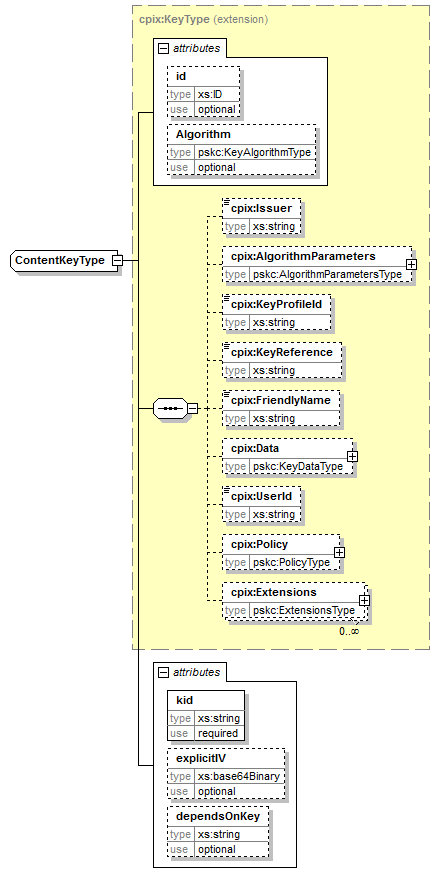
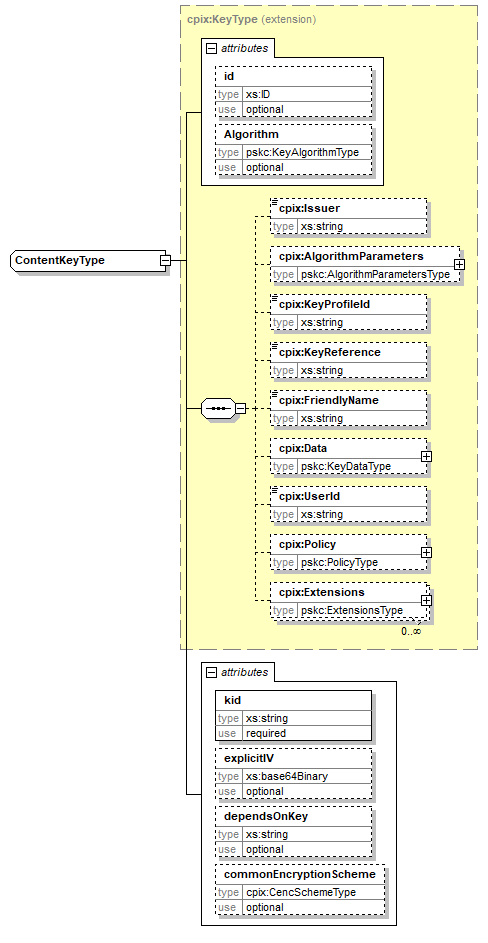
Add a section for bug #51

diff --git a/Cpix.bs.md b/Cpix.bs.md
@@ -22,7 +22,7 @@ Because the defined container is not made for a specifically defined content pre
 
 ## Normative Language ## {#intro-conformance}
 
-See [[!DASH-IF-IOP]] section 2.3.
+See [[!DASHIFIOP]] section 2.3.
 
 ## Terms & Definitions ## {#intro-terms}
 
@@ -55,7 +55,7 @@ This section presents different use cases where such exchanges are required. [[#
 
 ## Overview of the End to End Architecture ## {#architecture}
 
-This informative section gives a general overview of the context in which content protection information need to be exchanged between entities in the backend. It completes section 7.5 of [[!DASH-IF-IOP]] by putting more emphasis on the backend aspects.
+This informative section gives a general overview of the context in which content protection information need to be exchanged between entities in the backend. It completes section 7.5 of [[!DASHIFIOP]] by putting more emphasis on the backend aspects.
 
 This informative section takes DASH content as an example for providing more specific and clear understanding, but this can be generalized to other streaming formats, such as HLS.
 
@@ -331,7 +331,7 @@ It shall be possible that the manifest generator receives [=DRM Signaling=] for 
 
 Update of [=Content Key=](s) shall be possible at periodic time or based on events. Some period of time could be in the clear (no encryption).
 
-It shall allow generating MPD conformant to [[!DASH-IF-IOP]].
+It shall allow generating MPD conformant to [[!DASHIFIOP]].
 
 [=Content Key=](s) shall be secured over the interface.
 
@@ -565,7 +565,7 @@ The <{DRMSystem}> element contains all information on a DRM system that can be u
 :: Matches the <{UpdateHistoryItem/updateVersion}> attribute of the <{UpdateHistoryItem}> element providing details on when this element was added or updated.
 
 : <dfn>systemId</dfn> (M, xs:string)
-:: This is the unique identifier of the DRM system. Values are published by [[!DASH-SystemIDs]].
+:: This is the unique identifier of the DRM system. Values are avaialble on [dashif.org](https://dashif.org/identifiers/content_protection/).
 
 : <dfn>kid</dfn> (M, xs:string)
 :: Matches the <{ContentKey/kid}> attribute of the <{ContentKey}> this element references.
@@ -576,7 +576,7 @@ The <{DRMSystem}> element contains all information on a DRM system that can be u
 : <dfn>PSSH</dfn> (0...1, xs:base64binary)
 :: This is the full [=PSSH=] box that should be added to ISOBMFF files encrypted with the referenced [=Content Key=].
 :: When the key is a leaf key in a key hierarchy, the value is inserted under the moof boxes.
-:: This element should not be used when the key is not part of a key hierarchy or is a root key in a key hierarchy. Instead, the DRM system signaling should be carried by the format-specific data structures such <{DRMSystem/ContentProtectionData}>. See [[!DASH-IF-IOP]] section 7.7.1. If this element is used in the above circumstances, the value is inserted under the moov box.
+:: This element should not be used when the key is not part of a key hierarchy or is a root key in a key hierarchy. Instead, the DRM system signaling should be carried by the format-specific data structures such <{DRMSystem/ContentProtectionData}>. See [[!DASHIFIOP]] section 7.7.1. If this element is used in the above circumstances, the value is inserted under the moov box.
 :: This element has meaning only when the media content is in the ISOBMFF format.
 
 : <dfn>ContentProtectionData</dfn> (0...1, xs:base64binary)
@@ -883,7 +883,7 @@ The document contains the following keys:
 
 **Content Keys**
 
-Each <{ContentKey}> element contains one [=Content Key=] that is used for encrypting an asset or crypto period of an asset or that acts as a dependency for the use of other [=Content Keys=] (when a key hierarchy is used). Typically, for Common Encryption as supported in [[!DASH-IF-IOP]], these keys are 128-bit keys used with the AES cipher.
+Each <{ContentKey}> element contains one [=Content Key=] that is used for encrypting an asset or crypto period of an asset or that acts as a dependency for the use of other [=Content Keys=] (when a key hierarchy is used). Typically, for Common Encryption as supported in [[!DASHIFIOP]], these keys are 128-bit keys used with the AES cipher.
 
 **Document Key**
 
@@ -978,6 +978,10 @@ The usage of DRM system signaling data is different when hierarchical keys are u
 
 Any DRM system specific functionality associated with key hierarchies exists on the DRM layer. It may affect the DRM system signaling data but not the keys themselves.
 
+## Content Keys with Several Protection Encryption Schemes ## {#keys-encryptionScheme}
+
+[[!MPEGCENC]] defines several protection schemes that are mutually exclusive. This means that several encrypted versions for the same content in the clear are created if the targeted devices support one or another protection scheme. While it may not be recommended, it is possible to use the same [=Content Keys=] when encrypting these different versions. In term of CPIX document, this means that several documents need to be created, these documents will differ only on the <{ContentKey/commonEncryptionScheme}> which will take a different value depending on the protection schemes.
+
 # Examples # {#examples}
 
 [Example CPIX documents are available on GitHub](https://github.com/Dash-Industry-Forum/cpix-test-vectors).
@@ -1009,16 +1013,6 @@ Abstract: None
 
 <pre class="biblio">
 {
-	"DASH-IF-IOP": {
-		"href": "https://dashif.org/guidelines/",
-		"title": "Guidelines for Implementation: DASH-IF Interoperability Points, version 4.1, September 2017",
-		"publisher": "DASH Industry Forum"
-	},
-	"DASH-SystemIDs": {
-		"href": "https://dashif.org/identifiers/content_protection/",
-		"title": "DASH-IF registry of DRM System IDs",
-		"publisher": "DASH Industry Forum"
-	},
 	"CPIX-XSD": {
 		"href": "https://dashif.org/guidelines/",
 		"title": "CPIX XML Schema",
